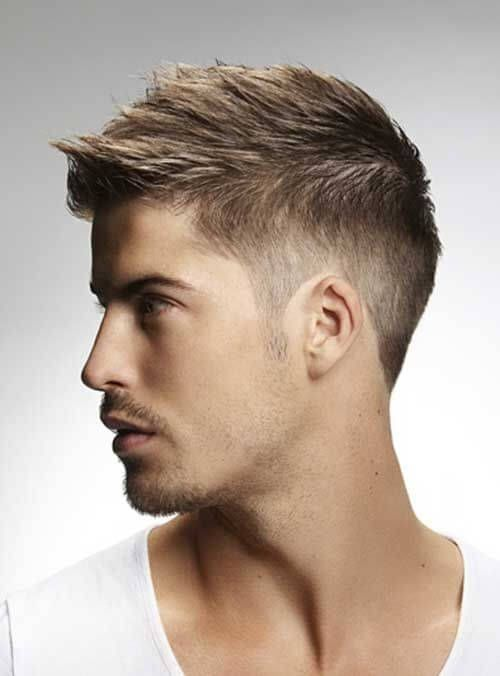
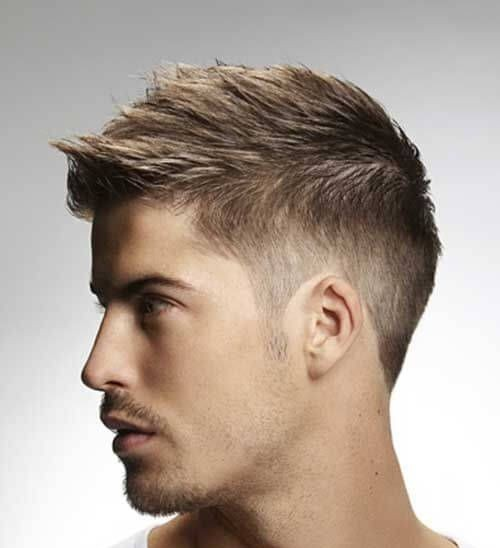
Feito o html da parte 1 do portifólio

diff --git a/pages/Portifólio.html b/pages/Portifólio.html
@@ -37,6 +37,10 @@
             margin-left: 6.375rem;
         }
 
+        body {
+            background-image: linear-gradient(to bottom, var(--rust-brown), var(--cofee-brown));
+        }
+
         nav {
             border-bottom: 1px solid black;
             background-color: var(--light-french-beige);
@@ -71,6 +75,25 @@
         .d6 a {
             text-decoration: none;
             color: var(--fadded-orange);
+        }
+
+        .img42  img{
+            width: 20rem;
+        }
+
+        .dd1 {
+            margin-top: 4rem;
+            gap: 6rem;
+            margin-bottom: 6rem;
+        }
+
+        .dd2 {
+            margin-top: 4rem;
+        }
+
+        .dd1 a {
+            text-decoration: none;
+            color: var(--burnt-orange);
         }
     </style>
 </head>
@@ -107,25 +130,143 @@
         </div>
     </nav>
 
-    <div class="d-flex flex-column">
-        <div id="carouselExample" class="carousel slide">
+    <div class="d-flex flex-column align-items-center dd2">
+        <div id="carossel" class="carousel slide" data-bs-ride="carousel">
             <div class="carousel inner">
-                <div class="carousel-item active">
-                    <img src="../imagens/fade2.jpg" alt="">
+                <div class="carousel-item active img42">
+                    <a href="#F01"><img src="../imagens/fade2.jpg" alt=""></a>
                 </div>
-                <div class="carousel-item">
+                <div class="carousel-item img42">
                     <img src="../imagens/undercut2.jpg" alt="">
                 </div>
+                <div class="carousel-item img42">
+                    <img src="../imagens/militar2.jpg" alt="">
+                </div>
+                <div class="carousel-item img42">
+                    <img src="../imagens/americano2.jpeg" alt="">
+                </div>
+                <div class="carousel-item img42">
+                    <img src="../imagens/moicano2.jpeg" alt="">
+                </div>
+                <div class="carousel-item img42">
+                    <img src="../imagens/vstyle2.jpeg" alt="">
+                </div>
+                <div class="carousel-item img42">
+                    <img src="../imagens/taper2.jpg" alt="">
+                </div>
+                <div class="carousel-item img42">
+                    <img src="../imagens/caeser2.jpg" alt="">
+                </div>
+            </div>
+            <div>
+                <button class="carousel-control-prev" type="button" data-bs-target="#carossel" data-bs-slide="prev">
+                    <span class="carousel-control-prev-icon" aria-hidden="true"></span>
+                    <span class="visually-hidden">Previous</span>
+                </button>
+                <button class="carousel-control-next" type="button" data-bs-target="#carossel" data-bs-slide="next">
+                  <span class="carousel-control-next-icon" aria-hidden="true"></span>
+                  <span class="visually-hidden">Next</span>
+                </button>
             </div>
         </div>
 
-        <div >
-            <h1>Fade (Degradê)</h1>
-            <img src="../imagens/fade.jpg" alt="">
-            <p>O fade, também conhecido como degradê, é um dos estilos de corte mais procurados atualmente. Sua principal característica é a mudança 
-                suave no comprimento do cabelo, começando bem baixo nas laterais e aumentando gradualmente em direção ao topo. Há diferentes versões 
-                desse corte, como o low fade, que possui um acabamento mais discreto, e o high fade, que cria um visual mais marcante e destacado.
-            </p>
+        <div class="d-flex flex-row dd1">
+            <div>
+                <a href="#CC"><h1>Cortes de Cabelo</h1></a>
+            </div>
+            <div>
+                <a href="#CB"><h1>Corte de Barbas</h1></a>
+            </div>
+        </div>
+
+        <div id="CC" class="d-flex flex-column d11 align-items-center">
+            <div id="F01">
+                <h3>Fade (Degradê)</h3>
+                <img src="../imagens/fade.jpg" alt="" class="img1">
+                <p3>
+                    O fade, também conhecido como degradê, é um dos estilos de corte mais procurados atualmente. Sua principal característica é a mudança 
+                    suave no comprimento do cabelo, começando bem baixo nas laterais e aumentando gradualmente em direção ao topo. Há diferentes versões 
+                    desse corte, como o low fade, que possui um acabamento mais discreto, e o high fade, que cria um visual mais marcante e destacado.
+                </p3
+            </div>
+            <div>
+                <h3>Undercut</h3>
+                <img src="../imagens/undercut.jpeg" alt="" class="img1">
+                <p>
+                    O undercut é um corte moderno que combina estilo e personalidade. Sua principal característica é o contraste entre as laterais 
+                    e a parte de trás mais baixas ou raspadas, enquanto o topo do cabelo permanece mais comprido. Esse corte pode ser finalizado de
+                    diferentes maneiras, como penteado para trás, com textura ou até em estilo moicano. Além disso, sua versatilidade faz com que 
+                    combine com diversos tipos e texturas de cabelo.
+                </p>
+            </div>
+            <div>
+                <h3>Corte Militar</h3>
+                <img src="../imagens/militar.jpeg" alt="" class="img1">
+                <p>
+                    O corte militar é um estilo clássico que nunca sai de moda, perfeito para quem procura praticidade e um visual sempre alinhado. 
+                    Ele possui laterais bem baixas ou raspadas e o topo curto, garantindo facilidade na manutenção do dia a dia. O comprimento pode 
+                    variar de acordo com a preferência de cada pessoa, mantendo sempre a aparência limpa e organizada. Esse corte é uma ótima opção 
+                    para quem prefere um visual mais discreto e tradicional.
+                </p>
+            </div>
+            <div>
+                <h3>Corte Americano</h3>
+                <img src="../imagens/americano.jpeg" alt="" class="img1">
+                <p>
+                    O corte masculino no estilo americano é uma escolha clássica que continua sempre em alta. Ele se destaca pelas laterais mais 
+                    baixas e pelo topo um pouco mais comprido, criando um visual equilibrado, natural e elegante. Esse estilo é ideal para quem 
+                    deseja unir tradição e modernidade no mesmo corte. Além disso, combina muito bem com diferentes tipos de cabelo, incluindo 
+                    lisos e crespos.
+                </p>
+            </div>
+            <div>
+                <h3>Moicano</h3>
+                <img src="../imagens/moicano.jpeg" alt="" class="img1">
+                <p>
+                    O moicano é uma ótima opção para quem gosta de um visual mais marcante e cheio de atitude. Esse corte se caracteriza pelo 
+                    maior volume no centro da cabeça, enquanto as laterais ficam raspadas ou bem baixas. As versões modernas do moicano podem ir 
+                    desde estilos mais discretos até os mais ousados, com fios desfiados, texturizados ou até com cores diferentes, trazendo ainda 
+                    mais personalidade ao visual.
+                </p>
+            </div>
+            <div>
+                <h3>Estilo V</h3>
+                <img src="../imagens/vstyle.jpeg" alt="" class="img1">
+                <p>
+                    O corte masculino em estilo V tem se tornado cada vez mais popular por seu visual moderno e diferente. Ele se destaca pelo 
+                    desenho geométrico na parte da nuca, formando um “V” bem definido. Esse estilo é indicado para quem busca um corte mais marcante 
+                    e pode ser combinado com outros tipos, como o fade ou o undercut. Além de trazer mais personalidade ao visual, o acabamento em 
+                    V deixa o corte mais limpo e bem estruturado, funcionando bem em cabelos curtos e médios, lisos ou cacheados.
+                </p>
+            </div>
+            <div>
+                <h3>Tapper</h3>
+                <img src="../imagens/taper.jpeg" alt="" class="img1">
+                <p>
+                    O taper é um corte que lembra o fade, mas de forma mais suave e discreta. Nele, o cabelo vai diminuindo gradualmente do 
+                    comprimento nas laterais, especialmente nas têmporas até a nuca, sem aquela transição mais marcada típica do fade.
+                    Esse estilo é conhecido por sua elegância e simplicidade, sendo uma ótima escolha para quem prefere um visual mais clássico e 
+                    versátil. Ele funciona bem tanto em ambientes profissionais quanto no dia a dia, combinando facilmente com diferentes estilos.
+                </p>
+            </div>
+            <div>
+                <h3>Caeser</h3>
+                <img src="../imagens/caeser.jpeg" alt="" class="img1">
+                <p>
+                    O corte Caesar é um estilo curto e com textura que vem se destacando bastante nos últimos tempos. Ele se caracteriza pela franja 
+                    curta e pelo cabelo levemente direcionado para a frente.
+                    Conhecido pela praticidade, é uma ótima opção para quem busca um visual limpo e fácil de manter no dia a dia. Além disso, combina 
+                    com diferentes tipos de cabelo e pode ajudar a disfarçar entradas ou sinais de calvície.
+                    Para um visual mais atual, o Caesar pode ser combinado com um fade nas laterais, trazendo um toque moderno ao corte, seja em cabelos 
+                    lisos ou cacheados.
+                </p>
+            </div>
+        </div>
+    </div>
+    <div id="CB">
+        <h2>Corte de Barba</h2>
+        <div>
+
         </div>
     </div>
 
